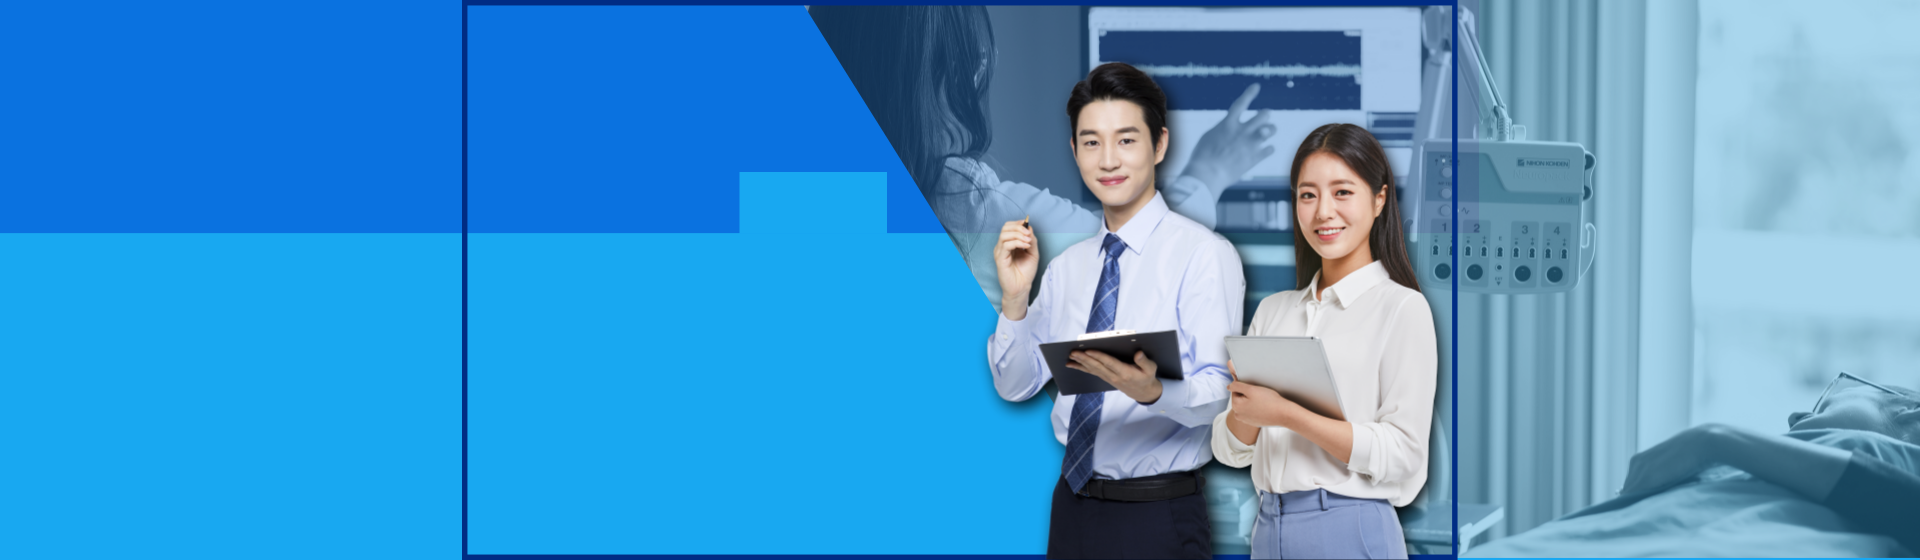
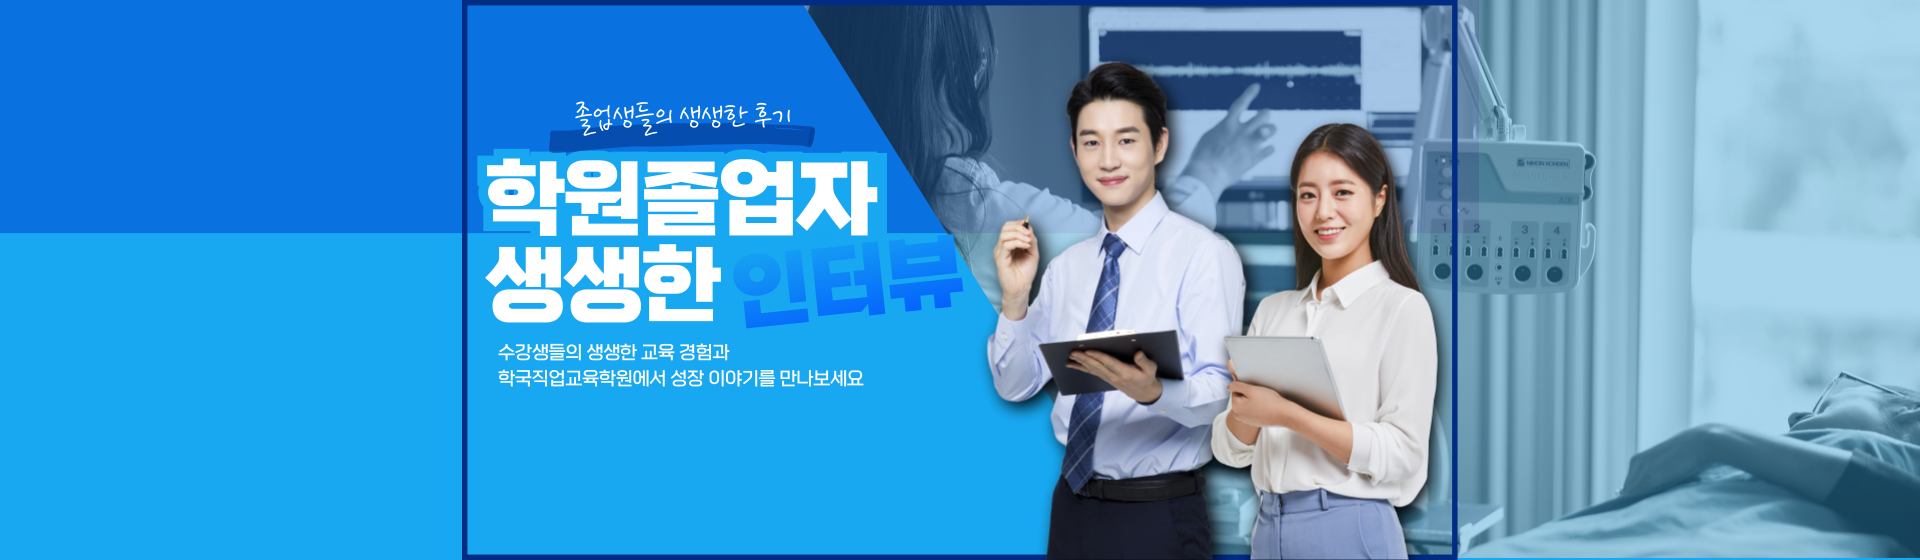
re

Changed region(s): [[0.25, 0.1821, 0.5, 0.6071], [0.25, 0.6071, 0.4688, 0.6982]]

diff --git a/app/components/frontend/MainSlide.tsx b/app/components/frontend/MainSlide.tsx
@@ -9,8 +9,6 @@ import {
 } from "react-icons/fa";
 
 import MainImg1 from "@/public/logo_s.png";
-
-import ButtonCustom from "./ButtonCustom";
 import { NoticeContact } from "./NoticeContact";
 import Image from "next/image";
 import MainSlide1 from "@/public/introduce/001.png";
@@ -18,8 +16,6 @@ import MainSlide2 from "@/public/introduce/002.png";
 import MainSlide3 from "@/public/introduce/003.png";
 import MainSlide4 from "@/public/introduce/004.png";
 import MainSlide5 from "@/public/introduce/005.png";
-import { Button } from "@/components/ui/button";
-import Link from "next/link";
 
 const testimonials = [
   {
@@ -27,7 +23,7 @@ const testimonials = [
     back: MainSlide1,
     description: "빅데이터 분석 기반의 멀티 전문인력 양성과정(컴활+FAT+TAT)",
     name: "산업구조변화 대응 특화훈련",
-    title: "컴활+FAT+TAT과정",
+    title: "한국직업교육학원을\n 소개합니다",
     link: "https://www.daum.net",
     // link2: "https://msn.com",
   },
@@ -36,7 +32,7 @@ const testimonials = [
     back: MainSlide2,
     description: "몸값배팅! 희망연봉, 얼마까지 상도의?",
     name: "폼나게 이직하자",
-    title: "폼나게 이직하자",
+    title: "수강생들의 생생한 인터뷰와 성장이야기",
     link: "https://www.google.com",
   },
   {
@@ -44,7 +40,7 @@ const testimonials = [
     back: MainSlide3,
     description: "몸값배팅! 희망연봉, 얼마까지 상도의?",
     name: "폼나게 이직하자",
-    title: "폼나게 이직하자",
+    title: "예비수강생들을 위한 특별한 맞춤상담",
     link: "https://www.naver.com",
   },
   {
@@ -52,7 +48,7 @@ const testimonials = [
     back: MainSlide4,
     // description: "전화상담, 카카오상담, 메일상담 OKOKOK",
     // name: "상담신청하기",
-    title: "상담신청하기",
+    title: "유익한 교육 정보와 소식을 확인하세요",
     link: "https://www.kakao.com",
   },
   {
@@ -61,7 +57,7 @@ const testimonials = [
     // description:
     //   "Lorem ipsum dolor, sit amet consectetur adipisicing elit. Expedita sequi cupiditate harum repellendusda.",
     // name: "생생합격후기",
-    title: "생생합격후기",
+    title: "SNS 해시테그 이벤트에 참여하세요",
     link: "https://www.marvel.com",
   },
 ];
@@ -157,7 +153,7 @@ const Card = ({
                 className="h-full object-cover"
               /> */}
             </div>
-            <h1 className="text-white text-4xl font-bold uppercase ">{name}</h1>
+            {/* <h1 className="text-white text-4xl font-bold uppercase ">{name}</h1>
             <p className="text-xl w-2/3 md:w-1/2 text-white">{description}</p>
             <div className="py-4 flex space-x-4">
               {link && (
@@ -166,7 +162,7 @@ const Card = ({
                 </Link>
               )}
               {link2 && <ButtonCustom type="unlock now" link={link2} />}
-            </div>
+            </div> */}
           </div>
         </div>
       </motion.div>

diff --git a/app/components/frontend/Hero.tsx b/app/components/frontend/Hero.tsx
@@ -81,7 +81,7 @@ const MobileMenu = () => {
             <div className="text-white px-4 py-4 flex flex-col">
               {/* 1 */}
               <div className="py-8 px-2 text-yellow-600 border-t border-neutral-500">
-                <h4>MARVEL INSIDER</h4>
+                <h4>구미회계·컴퓨터</h4>
                 <div className="w-full flex justify-between py-4">
                   <h3 className="text-white text-lg">KEN</h3>
 
